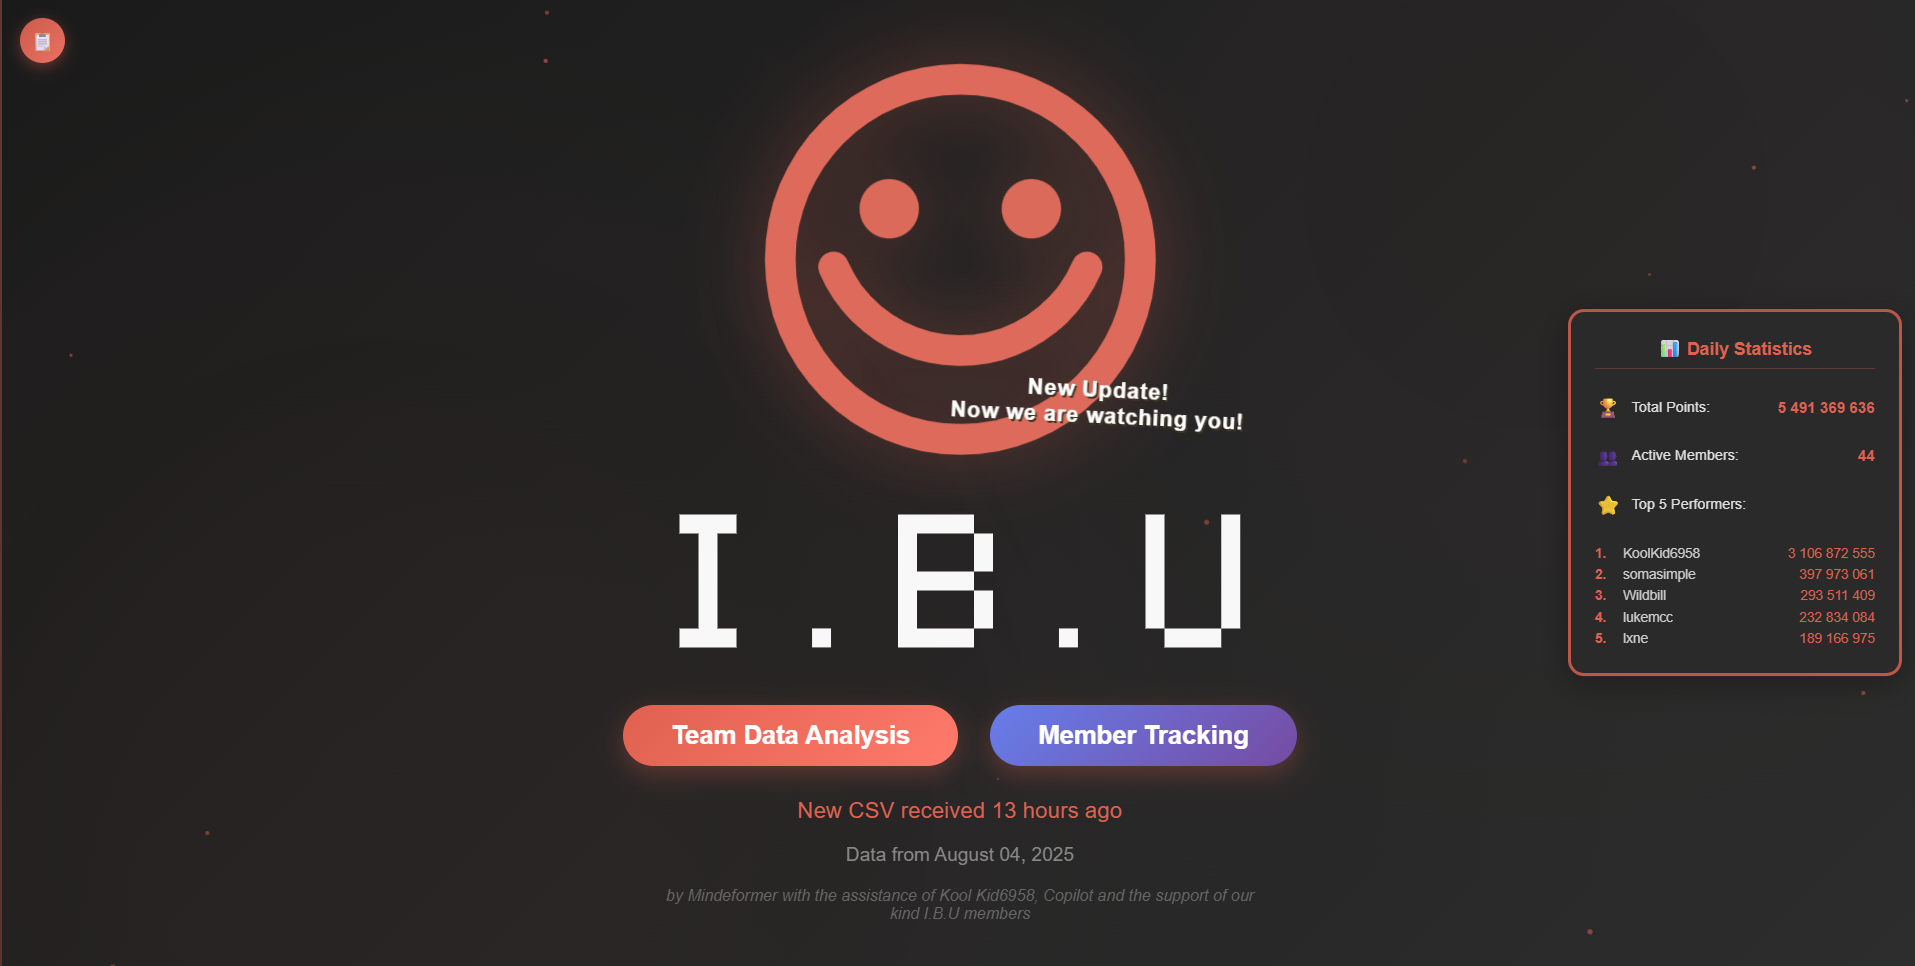
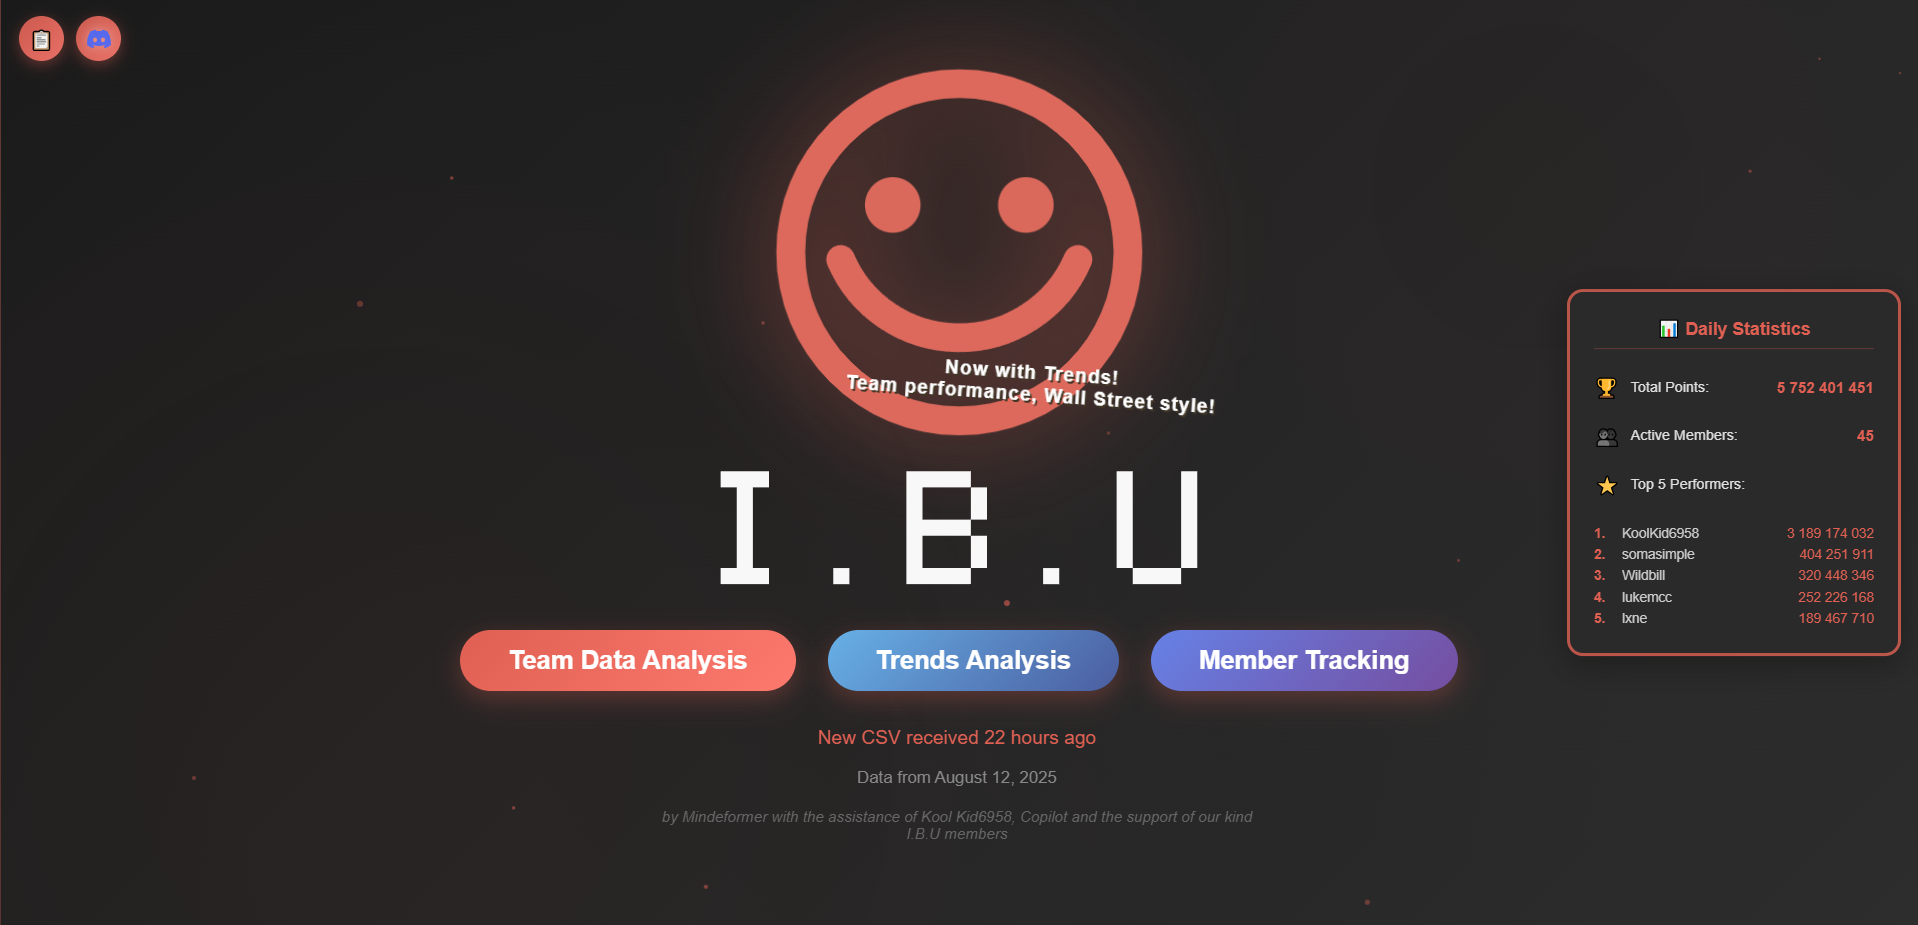
readme updated

diff --git a/README.md b/README.md
@@ -50,8 +50,8 @@ The IBU Dashboard is a comprehensive analytics platform that provides:
 ![Member Tracking](static/IBU_Member_page.png)
 *Member cards showing team members status regarding probation and post-probation phases*
 
-**(IN DEVELOPMENT)**
-*Member cards showing team members status regarding probation and post-probation phases*
+![Trends and Predictions](static/IBU_Trends_page.png)
+*Teams & member performance/points produced across time page with multi-series selection*
 
 ## 🛠 Technology Stack
 
